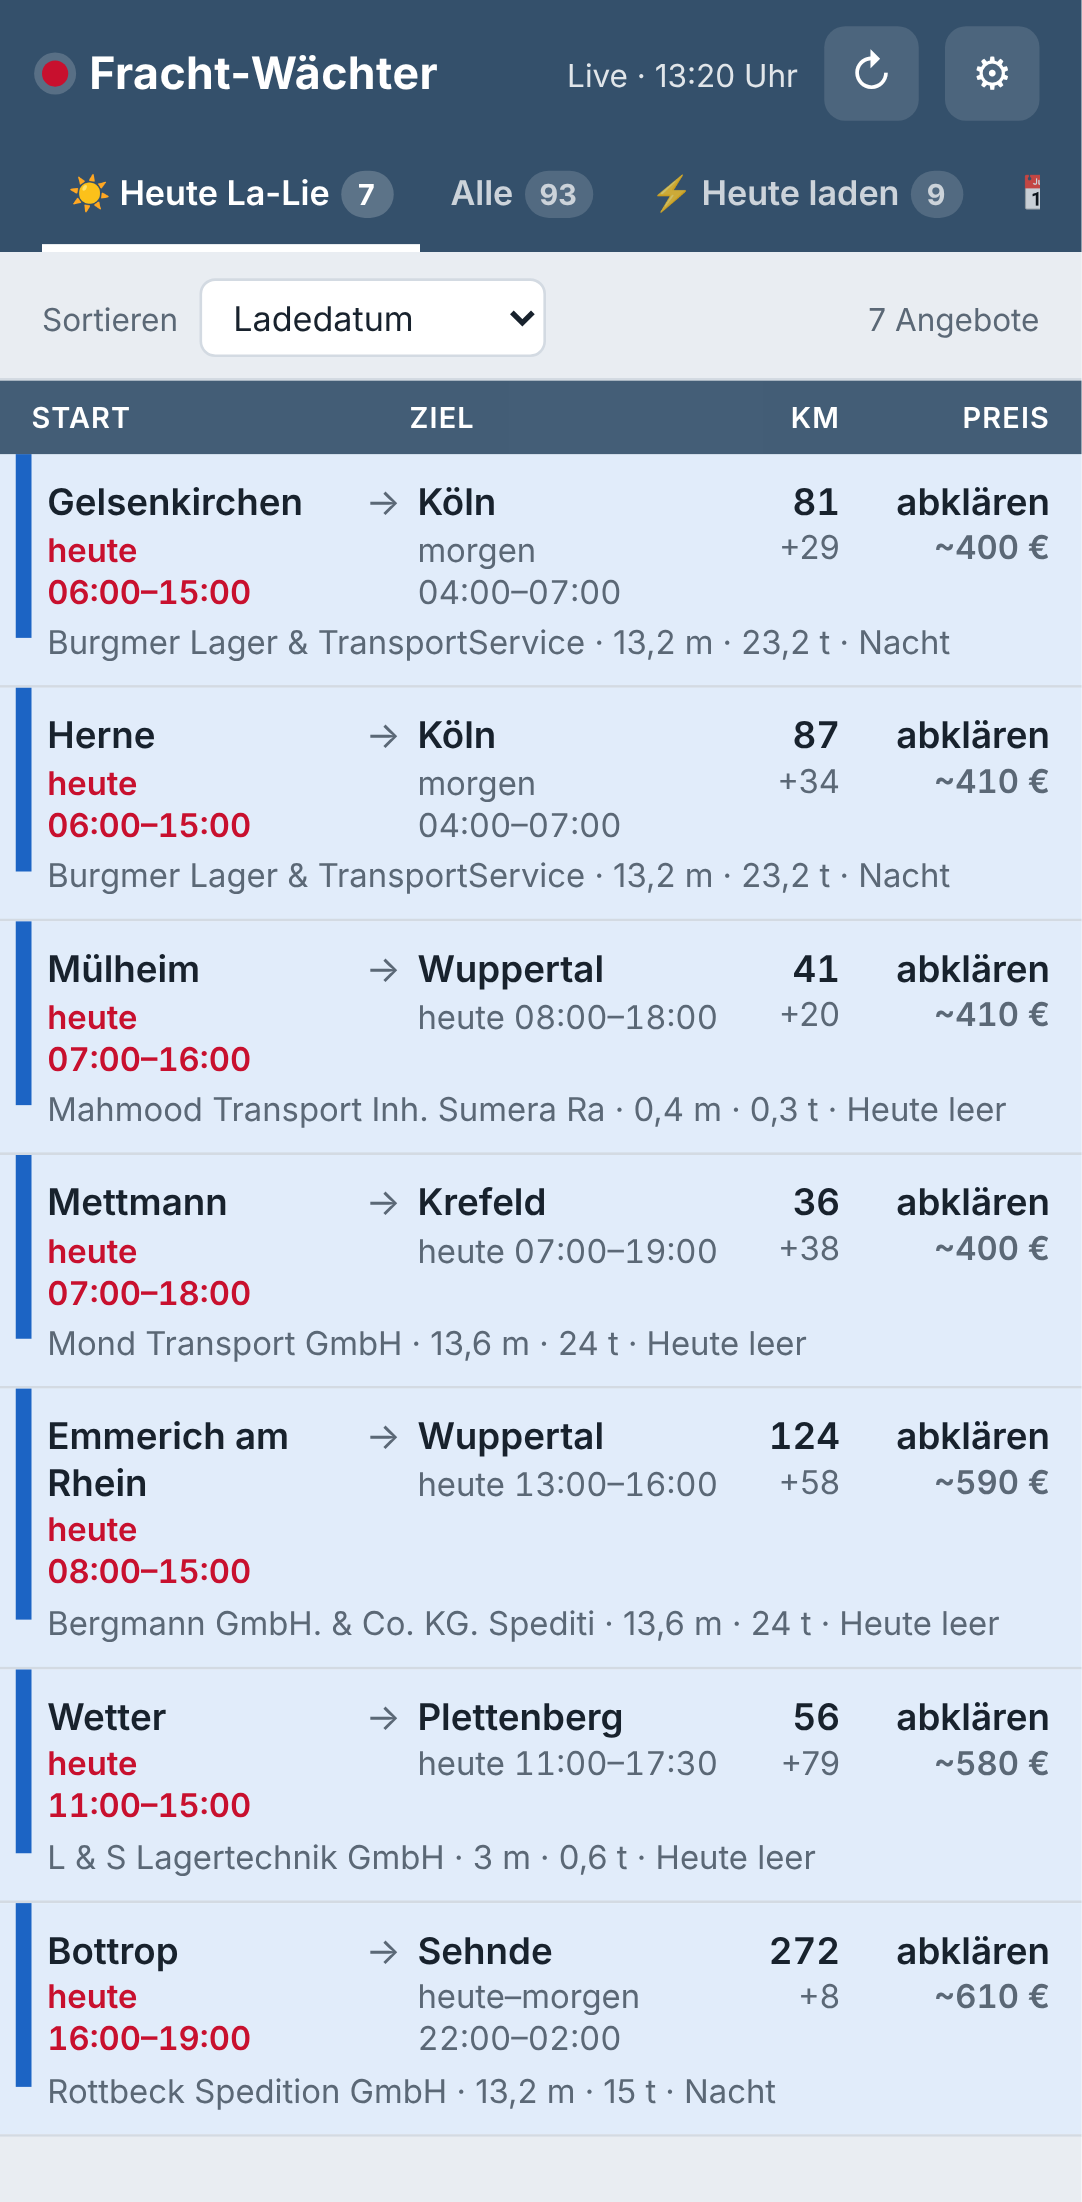
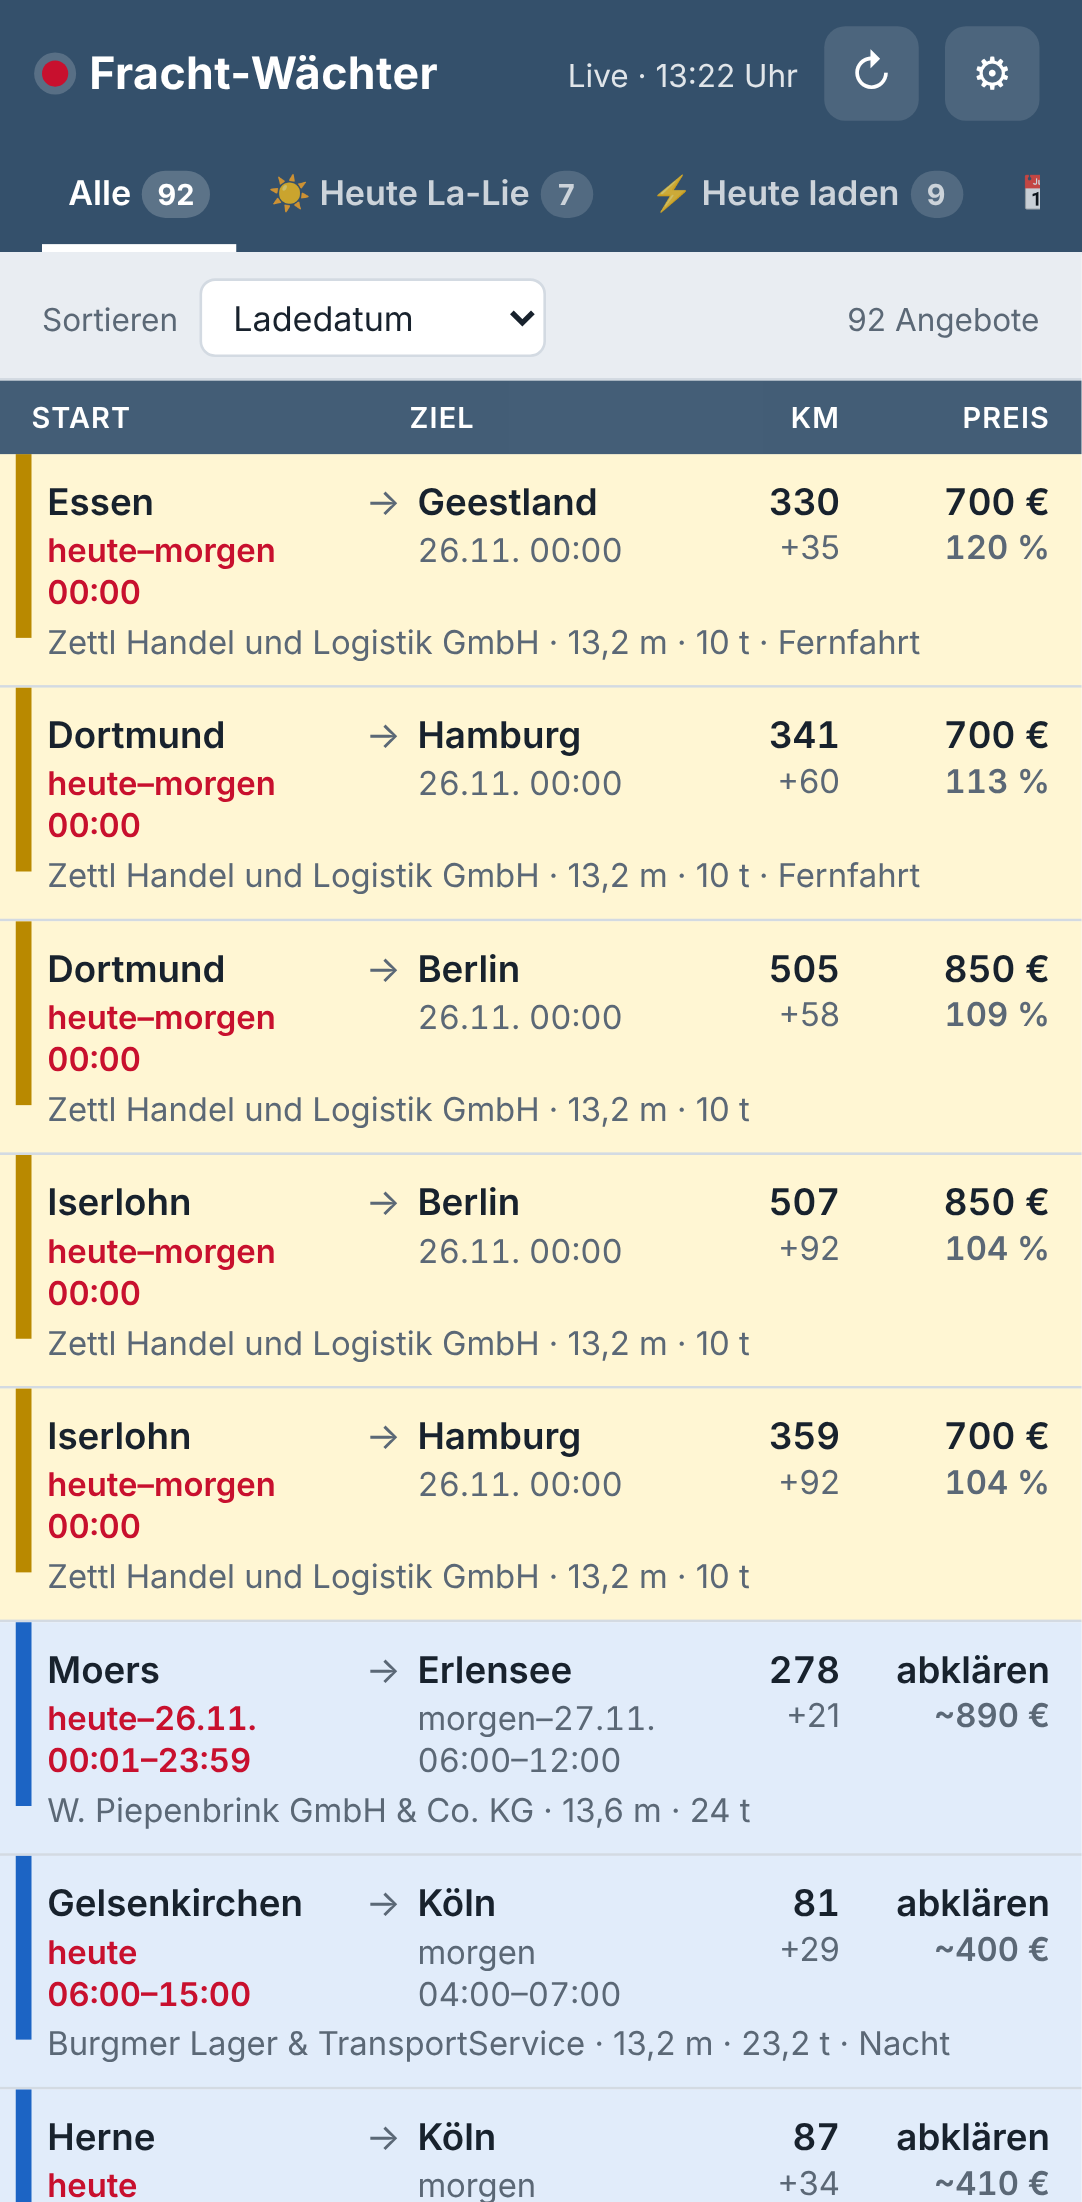
Reiter-Reihenfolge: Alle zuerst, dann Heute La-Lie
Claude-Session: https://claude.ai/code/session_01CBZNsc86tjysCV3teyg8Ag

diff --git a/index.html b/index.html
@@ -349,7 +349,7 @@ function angeboteAus(ereignisse) {
   }
 
   // ---------- Zustand ----------
-  let angebote = [], live = false, stand = null, reiter = lies('reiter2', 'lalie'), sortierung = lies('sort', 'laden'), offen = null;
+  let angebote = [], live = false, stand = null, reiter = lies('reiter3', 'alle'), sortierung = lies('sort', 'laden'), offen = null;
   // „NEU“ = kam an, seit du die App zuletzt verlassen hast
   let gesehenBis = Number(lies('gesehenBis', '0')) || Date.now();
   const merkeGesehen = () => schreib('gesehenBis', String(Date.now()));
@@ -360,7 +360,7 @@ function angeboteAus(ereignisse) {
     const t = h('div', { class: 'toast', role: 'status', text: text });
     document.body.appendChild(t); setTimeout(() => t.remove(), 3500);
   }
-  const REITER = [['lalie', '☀ Heute La-Lie'], ['alle', 'Alle'], ['heute', '⚡ Heute laden'], ['morgen', '📅 Ab morgen'], ['preis', '🔵 Preis abklären']];
+  const REITER = [['alle', 'Alle'], ['lalie', '☀ Heute La-Lie'], ['heute', '⚡ Heute laden'], ['morgen', '📅 Ab morgen'], ['preis', '🔵 Preis abklären']];
   // Heute La-Lie: heute laden und spätestens bis 5 Uhr morgen früh abladen können (Entladefenster öffnet bis dahin)
   function istLaLie(a) {
     const heute0 = new Date(); heute0.setHours(0, 0, 0, 0);
@@ -390,7 +390,7 @@ function angeboteAus(ereignisse) {
     const box = $('reiter'); box.textContent = '';
     REITER.forEach(([k, name]) => {
       const n = imReiter(k).length;
-      box.appendChild(h('button', { type: 'button', role: 'tab', 'aria-selected': String(reiter === k), onclick: () => { reiter = k; schreib('reiter2', k); zeigeReiter(); zeigeListe(); } },
+      box.appendChild(h('button', { type: 'button', role: 'tab', 'aria-selected': String(reiter === k), onclick: () => { reiter = k; schreib('reiter3', k); zeigeReiter(); zeigeListe(); } },
         name, h('b', { class: 'num', text: String(n) })));
     });
   }
